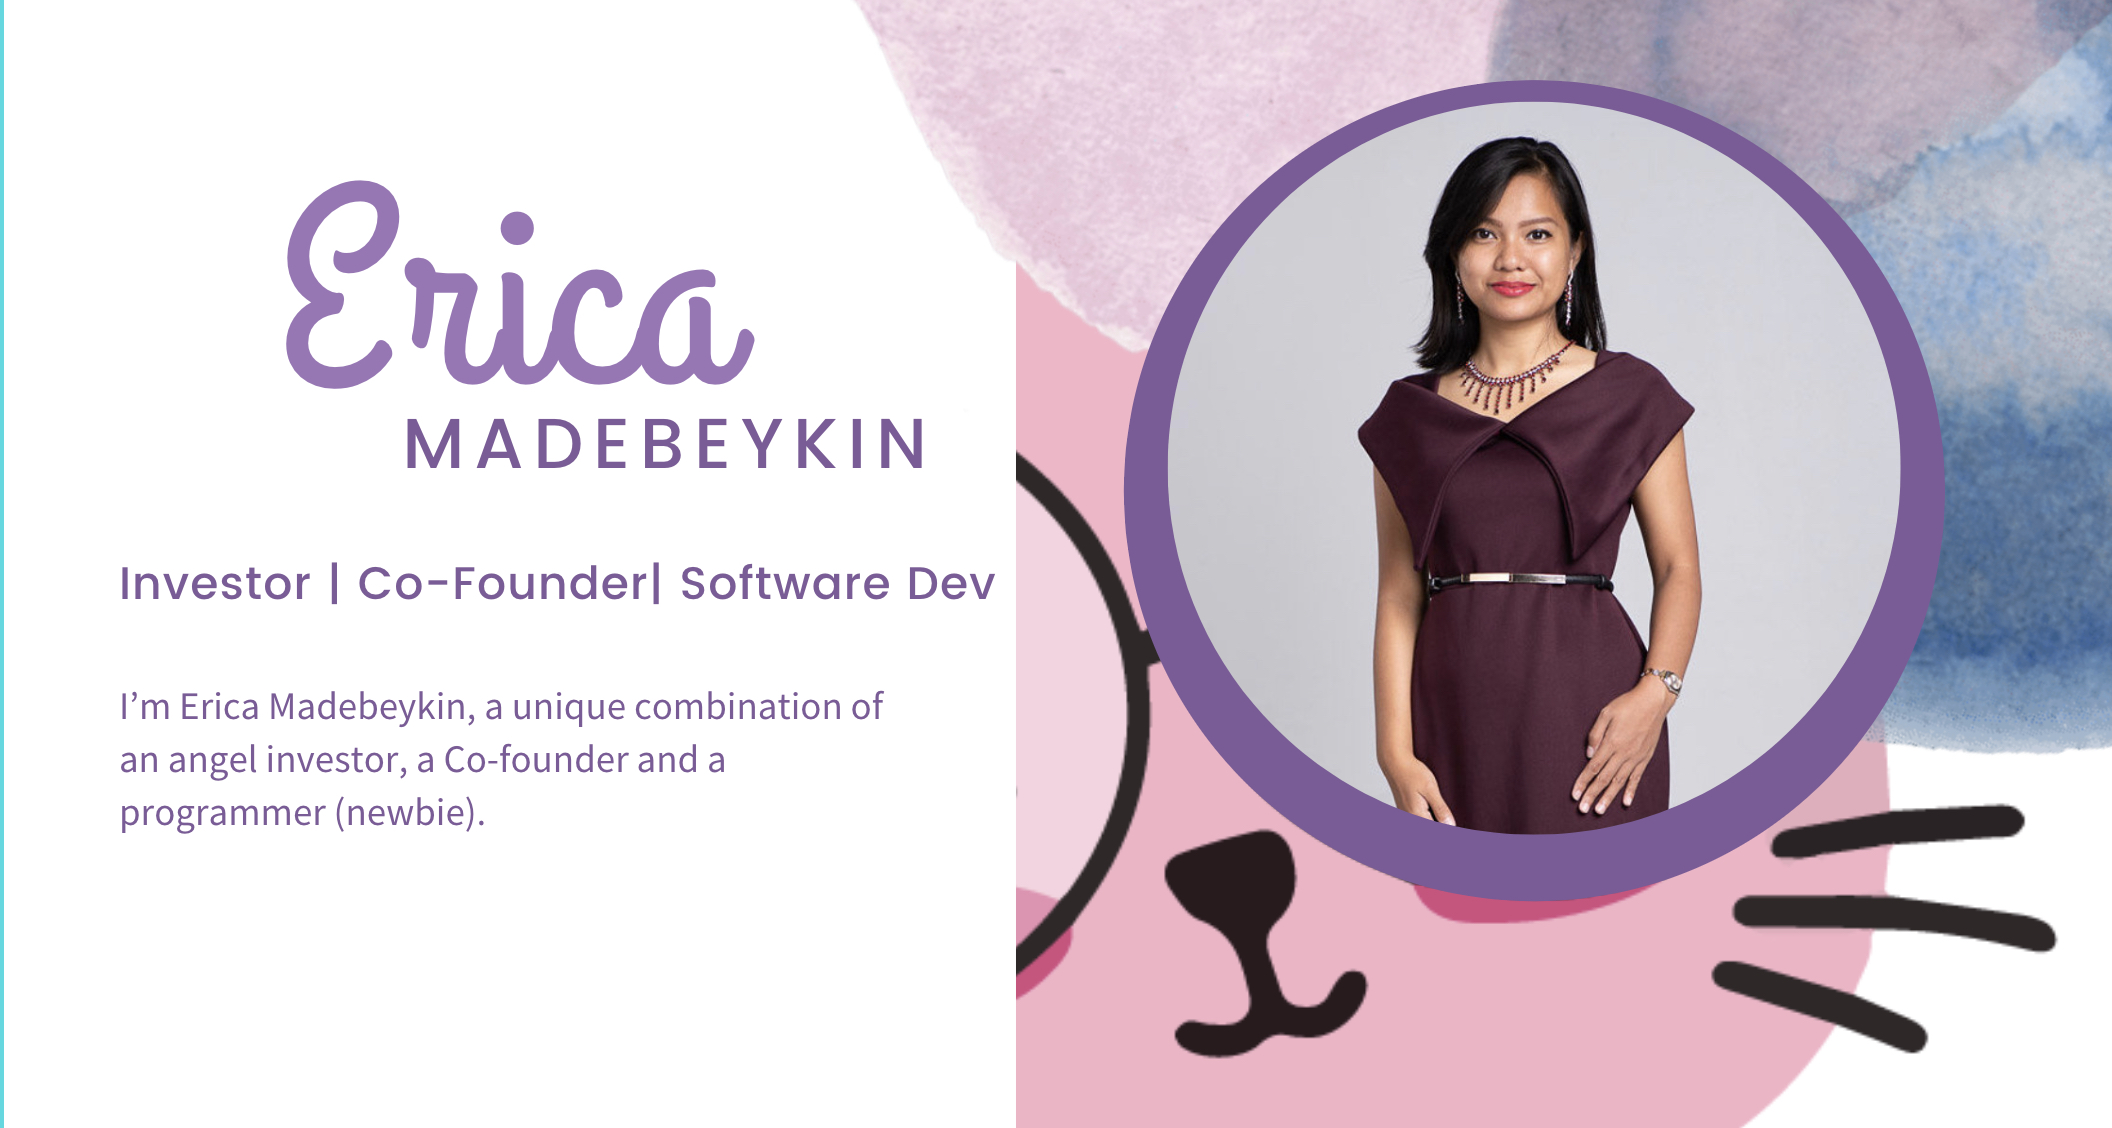
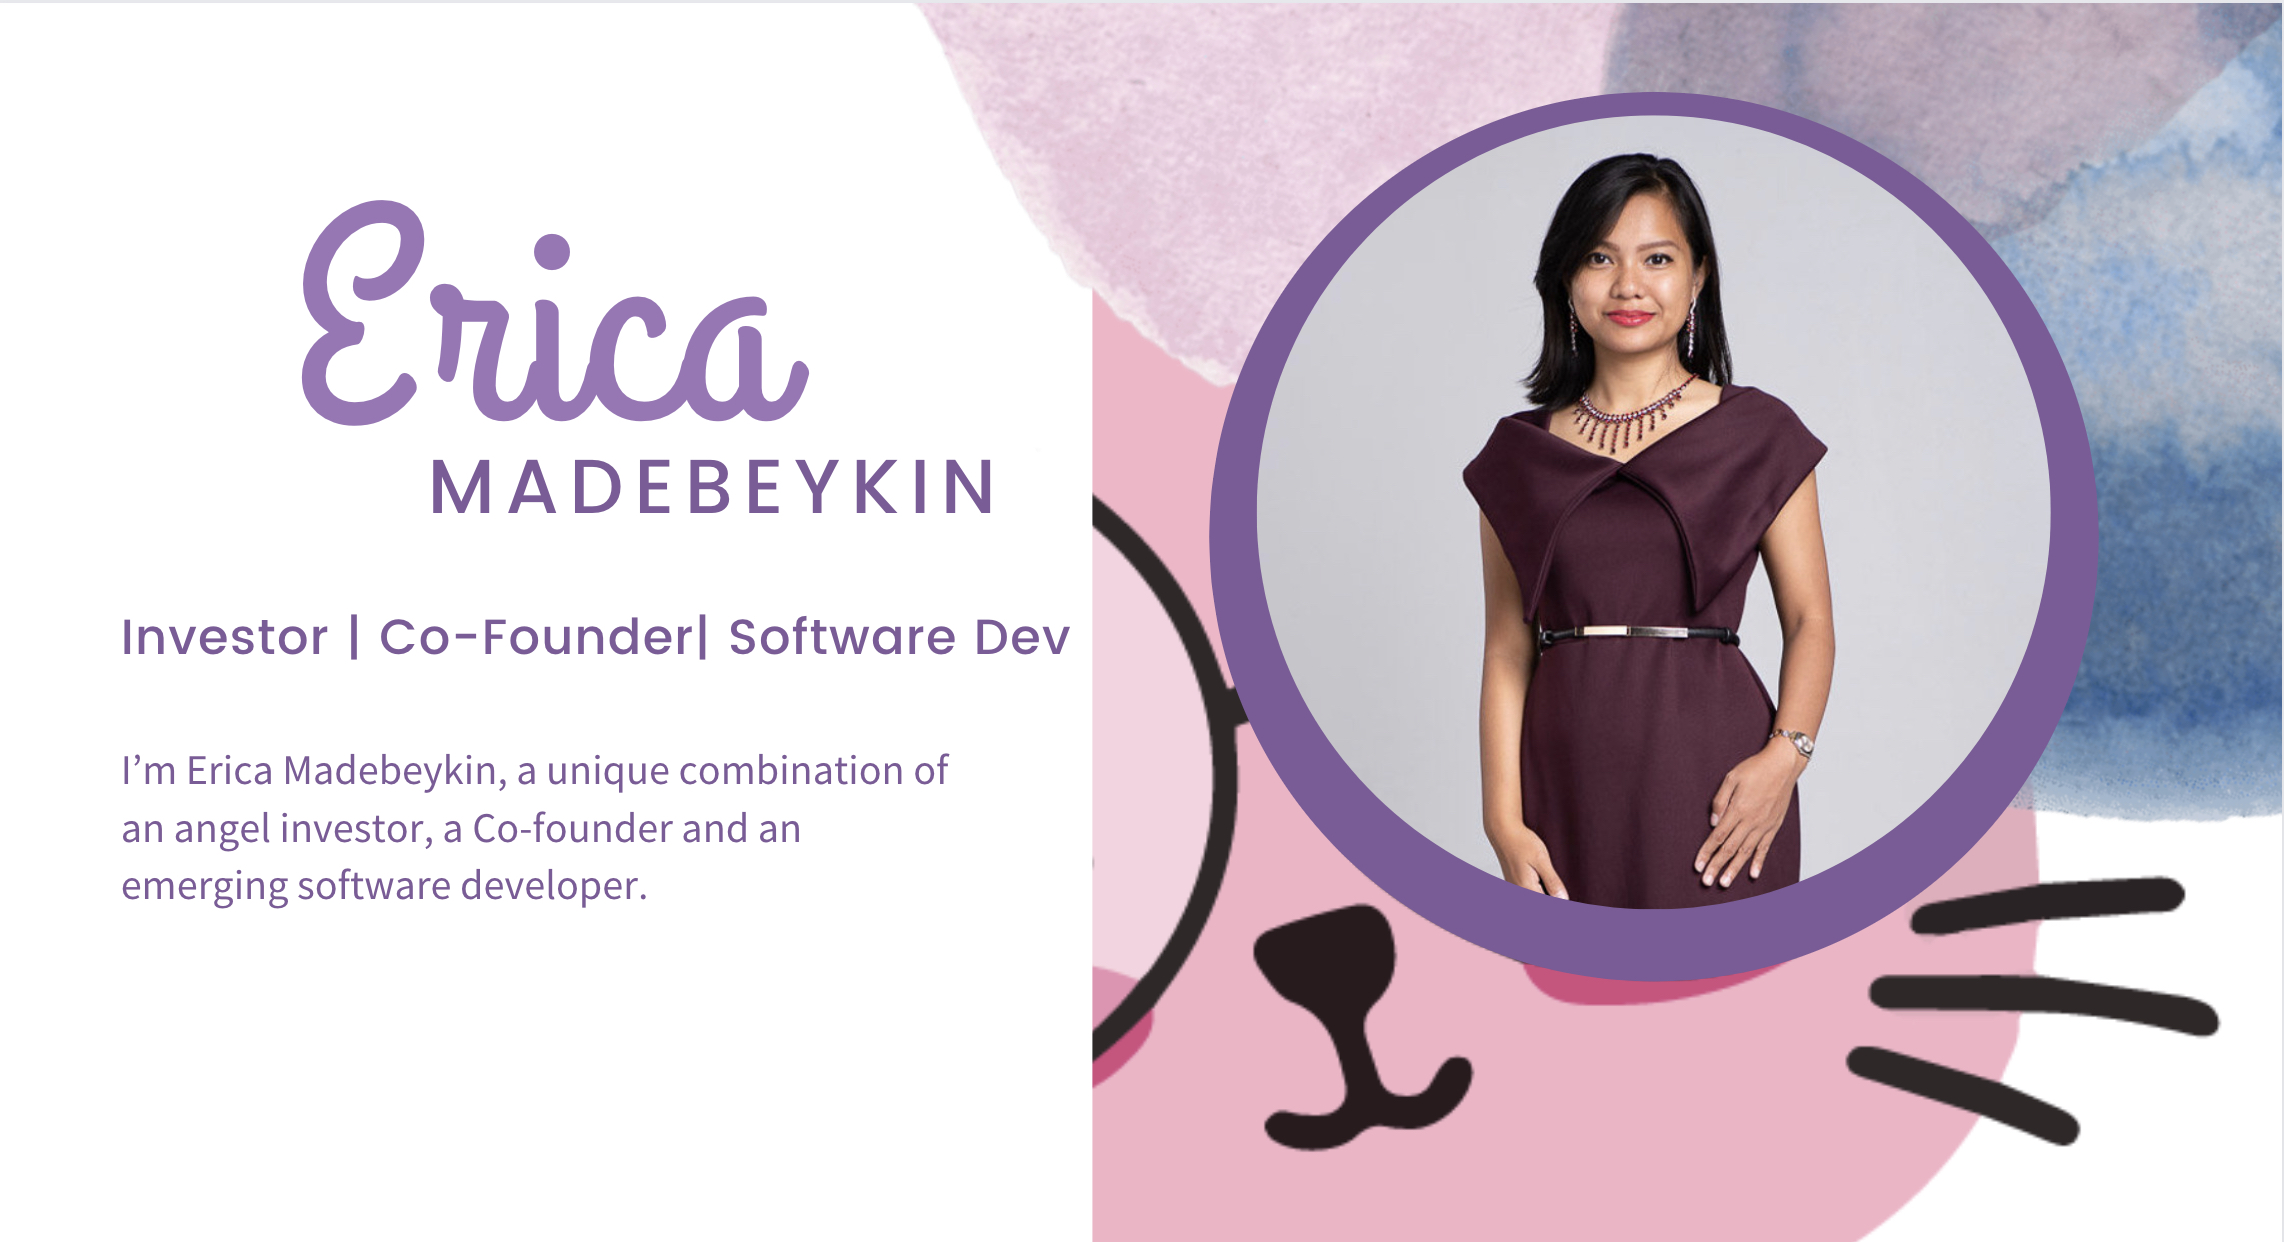
building my about me page for MIT project

diff --git a/MIT_project.html b/MIT_project.html
@@ -5,7 +5,6 @@
     <meta charset="utf-8" />
     <meta name="viewport" content="width=device-width, initial-scale=1" />
 
-
     <!-- Bootstrap CSS -->
     <link
       href="https://cdn.jsdelivr.net/npm/bootstrap@5.1.3/dist/css/bootstrap.min.css"
@@ -21,14 +20,14 @@
       crossorigin="anonymous"
     ></script>
     <title src="./images/mylovemishka.jpg">Kittycat Tech</title>
-    <link rel="icon" type="image/x-icon" href="/images/Mishka_Icon1.png">
+    <link rel="icon" type="image/x-icon" href="/images/Mishka_Icon1.png" />
   </head>
   <body>
     <!--Name-->
 
     <div>
       <!-- Nav Container-->
-      <nav class="navbar navbar-expand-lg navbar-dark bg-dark"  >
+      <nav class="navbar navbar-expand-lg navbar-dark bg-dark">
         <div class="container-fluid">
           <a class="navbar-brand" href="#">Kittycat Tech</a>
           <button
@@ -47,7 +46,37 @@
               <li class="nav-item">
                 <a class="nav-link active" aria-current="page" href="#">Home</a>
               </li>
-              
+              <li class="nav-item">
+                <a class="nav-link" href="#">Cute CheatSheets</a>
+              </li>
+              <li class="nav-item">
+                <a class="nav-link" href="#">MIT Project</a>
+              </li>
+              <li class="nav-item">
+                <a class="nav-link" href="#">Blog</a>
+              </li>
+              <li class="nav-item dropdown">
+                <a
+                  class="nav-link dropdown-toggle"
+                  href="#"
+                  id="navbarDropdown"
+                  role="button"
+                  data-bs-toggle="dropdown"
+                  aria-expanded="false"
+                >
+                  Gallery
+                </a>
+                <ul class="dropdown-menu" aria-labelledby="navbarDropdown">
+                  <li>
+                    <a class="dropdown-item" href="#"> Cute Pets</a>
+                  </li>
+                  <li><hr class="dropdown-divider" /></li>
+                  <li>
+                    <a class="dropdown-item" href="#">Memes Collection</a>
+                  </li>
+                </ul>
+              </li>
+            </ul>
             <form class="d-flex">
               <input
                 class="form-control me-2"
@@ -65,35 +94,32 @@
     </div>
     <!--Banner-->
     <div class="jumbotron jumbotron-fluid">
-        <div class="container">
-        <h1 class="display-4">Kittycat</h1>
-            <img src="./images/erica_banner.jpg" class="img-fluid" alt="Responsive image" class="img-thumbnail" >
-          
-          <p>I'm Erica Madebeykin, a unique combination of an angel investor, 
-              a Co-founder and a programmer (newbie).</p>
-        </div>
+      <div class="container">
+        <img
+          src="./images/erica_banner.jpg"
+          class="img-fluid"
+          alt="Erica Madebeykin : Investor | Co-founder | Software Developer. ’m Erica Madebeykin, a unique combination of an angel investor, a Co-founder and a software developer."
+          class="img-thumbnail"
+        />
       </div>
+    </div>
 
     <!--endOfBanner-->
 
     <!-- Education-->
-    <hr class="featurette-divider" />
+    <!-- START THE FEATURETTES -->
 
     <div class="row featurette">
       <div class="col-md-7">
-        <h2 class="featurette-heading">
-          Education
-         <br> <span class="text-muted">A humble learner</span>
-        </h2>
-        <p class="lead">
-            Erica is a student in MIT.
-            <br> W
-            <br> N
-          </p>
+        <h2 class="featurette-heading">Education</h2>
+        <p class="lead">Erica is currently as student in:</p>
       </div>
+    </div>
+
+    <hr class="featurette-divider" />
 
     <!--endOfEducation column-->
-    
+
     <!-- Marketing messaging and featurettes
       ================================================== -->
     <!-- Wrap the rest of the page in another container to center all the content. -->
@@ -111,8 +137,9 @@
           />
           <h2>Software Dev</h2>
           <p>
-            Free cute kitty++ CheatSheets for you! 
-            <br> Erica is a student bla bla
+            Free cute kitty++ CheatSheets for you!
+            <br />
+            Erica is a student bla bla
           </p>
           <p>
             <a class="btn btn-warning" href="#" role="button"
@@ -132,7 +159,8 @@
           <h2>Business Management</h2>
           <p>
             Business Core Expertise
-            <br> she is well skilled for...
+            <br />
+            she is well skilled for...
           </p>
           <p>
             <a class="btn btn-warning" href="#" role="button"
@@ -152,8 +180,9 @@
           <h2>Investment Porfolio</h2>
           <p>
             Here are the Github Projects that are yet to be submitted to MIT.
-            <br>Please note that Kittycat is just less than 3 months in coding,
-            so most of her projects should be showcased in the latter time.
+            <br />Please note that Kittycat is just less than 3 months in
+            coding, so most of her projects should be showcased in the latter
+            time.
           </p>
           <p>
             <a class="btn btn-warning" href="#" role="button"
@@ -167,65 +196,21 @@
 
       <!-- START THE FEATURETTES -->
 
-      <hr class="featurette-divider" />
-
       <div class="row featurette">
         <div class="col-md-7">
           <h2 class="featurette-heading">
-            FREE Cute CheatSheets for Everyone
-           <br> <span class="text-muted">Kitty++ CheatSheets</span>
+            Programming and Designs Skill Set
+            <br />
+            <span class="text-muted"> An emerging Software Developer and Designer</span>
           </h2>
           <p class="lead">
-              Free cute (kitty & friends) CheatSheets for you! 
-              <br> We believe that cute coding should be free, exciting and fun.
-               Get ready for coding tips, tricks and strategic thinking!
-              <br> Newbie friendly and made with love (emoji)
-            </p>
-        </div>
-        <div class="col-md-5">
-          <img
-            class="featurette-image img-fluid mx-auto"
-            src= "./images/Website_Main_Slider_Compressed_1.png"
-            alt="Generic placeholder image"
-          />
-        </div>
-      </div>
-
-      <hr class="featurette-divider" />
-
-      <div class="row featurette">
-        <div class="col-md-7 order-md-2">
-          <h2 class="featurette-heading">
-            #100 Days Of Code Articles
-          <br> <span class="text-muted">Journal of a Learner</span>
-          </h2>
-          <p class="lead">
-           Kittycat Erica is an avid fan of programming and designs.
-           In this section, we will share the tips and tricks that we've learnt along the road of full stack path.
-          Join us with our exciting road to Full Stack!
-          </p>
-        </div>
-        <div class="col-md-5 order-md-1">
-          <img
-            class="featurette-image img-fluid mx-auto"
-            src="./images/Website_Main_Slider_Compressed_3.png"
-            alt="Generic placeholder image"
-          />
-        </div>
-      </div>
-
-      <hr class="featurette-divider" />
-
-      <div class="row featurette">
-        <div class="col-md-7">
-          <h2 class="featurette-heading">
-            Cutie Patootie Sharing
-            <br> <span class="text-muted"> Dev's Pets Gallery</span>
-          </h2>
-          <p class="lead">
-            To have more fun, let's showcase our dear pets in this Gallery! 
-            <br> Send us your pet's photo so your pet can join our Cutie Patootie Gallery exhibit! The more, the merrier!
-            <br> Happy viewing of our pets' cute photos and may they live in everyone's hearts forever!
+            <strong>Programming Languages:</strong>
+            HTML | CSS | JavaScript
+            <br>
+            Progress: Creating my first Website ;been programming since February
+            <br>
+            <strong> Tech currently being Used:</strong>
+            <br> Git| Figma| Notion| Obsidian
           </p>
         </div>
         <div class="col-md-5">
@@ -238,19 +223,6 @@
       </div>
 
       <hr class="featurette-divider" />
-
-      <!-- /END THE FEATURETTES -->
     </div>
-    <!-- /.container -->
-
-    <!--closing div-->
-    <script>
-        $(".jumbotron").css({ height: $(window).height() + "px" });
-        
-        $(window).on("resize", function() {
-          $(".jumbotron").css({ height: $(window).height() + "px" });
-        });
-        
-    </script>
   </body>
 </html>
